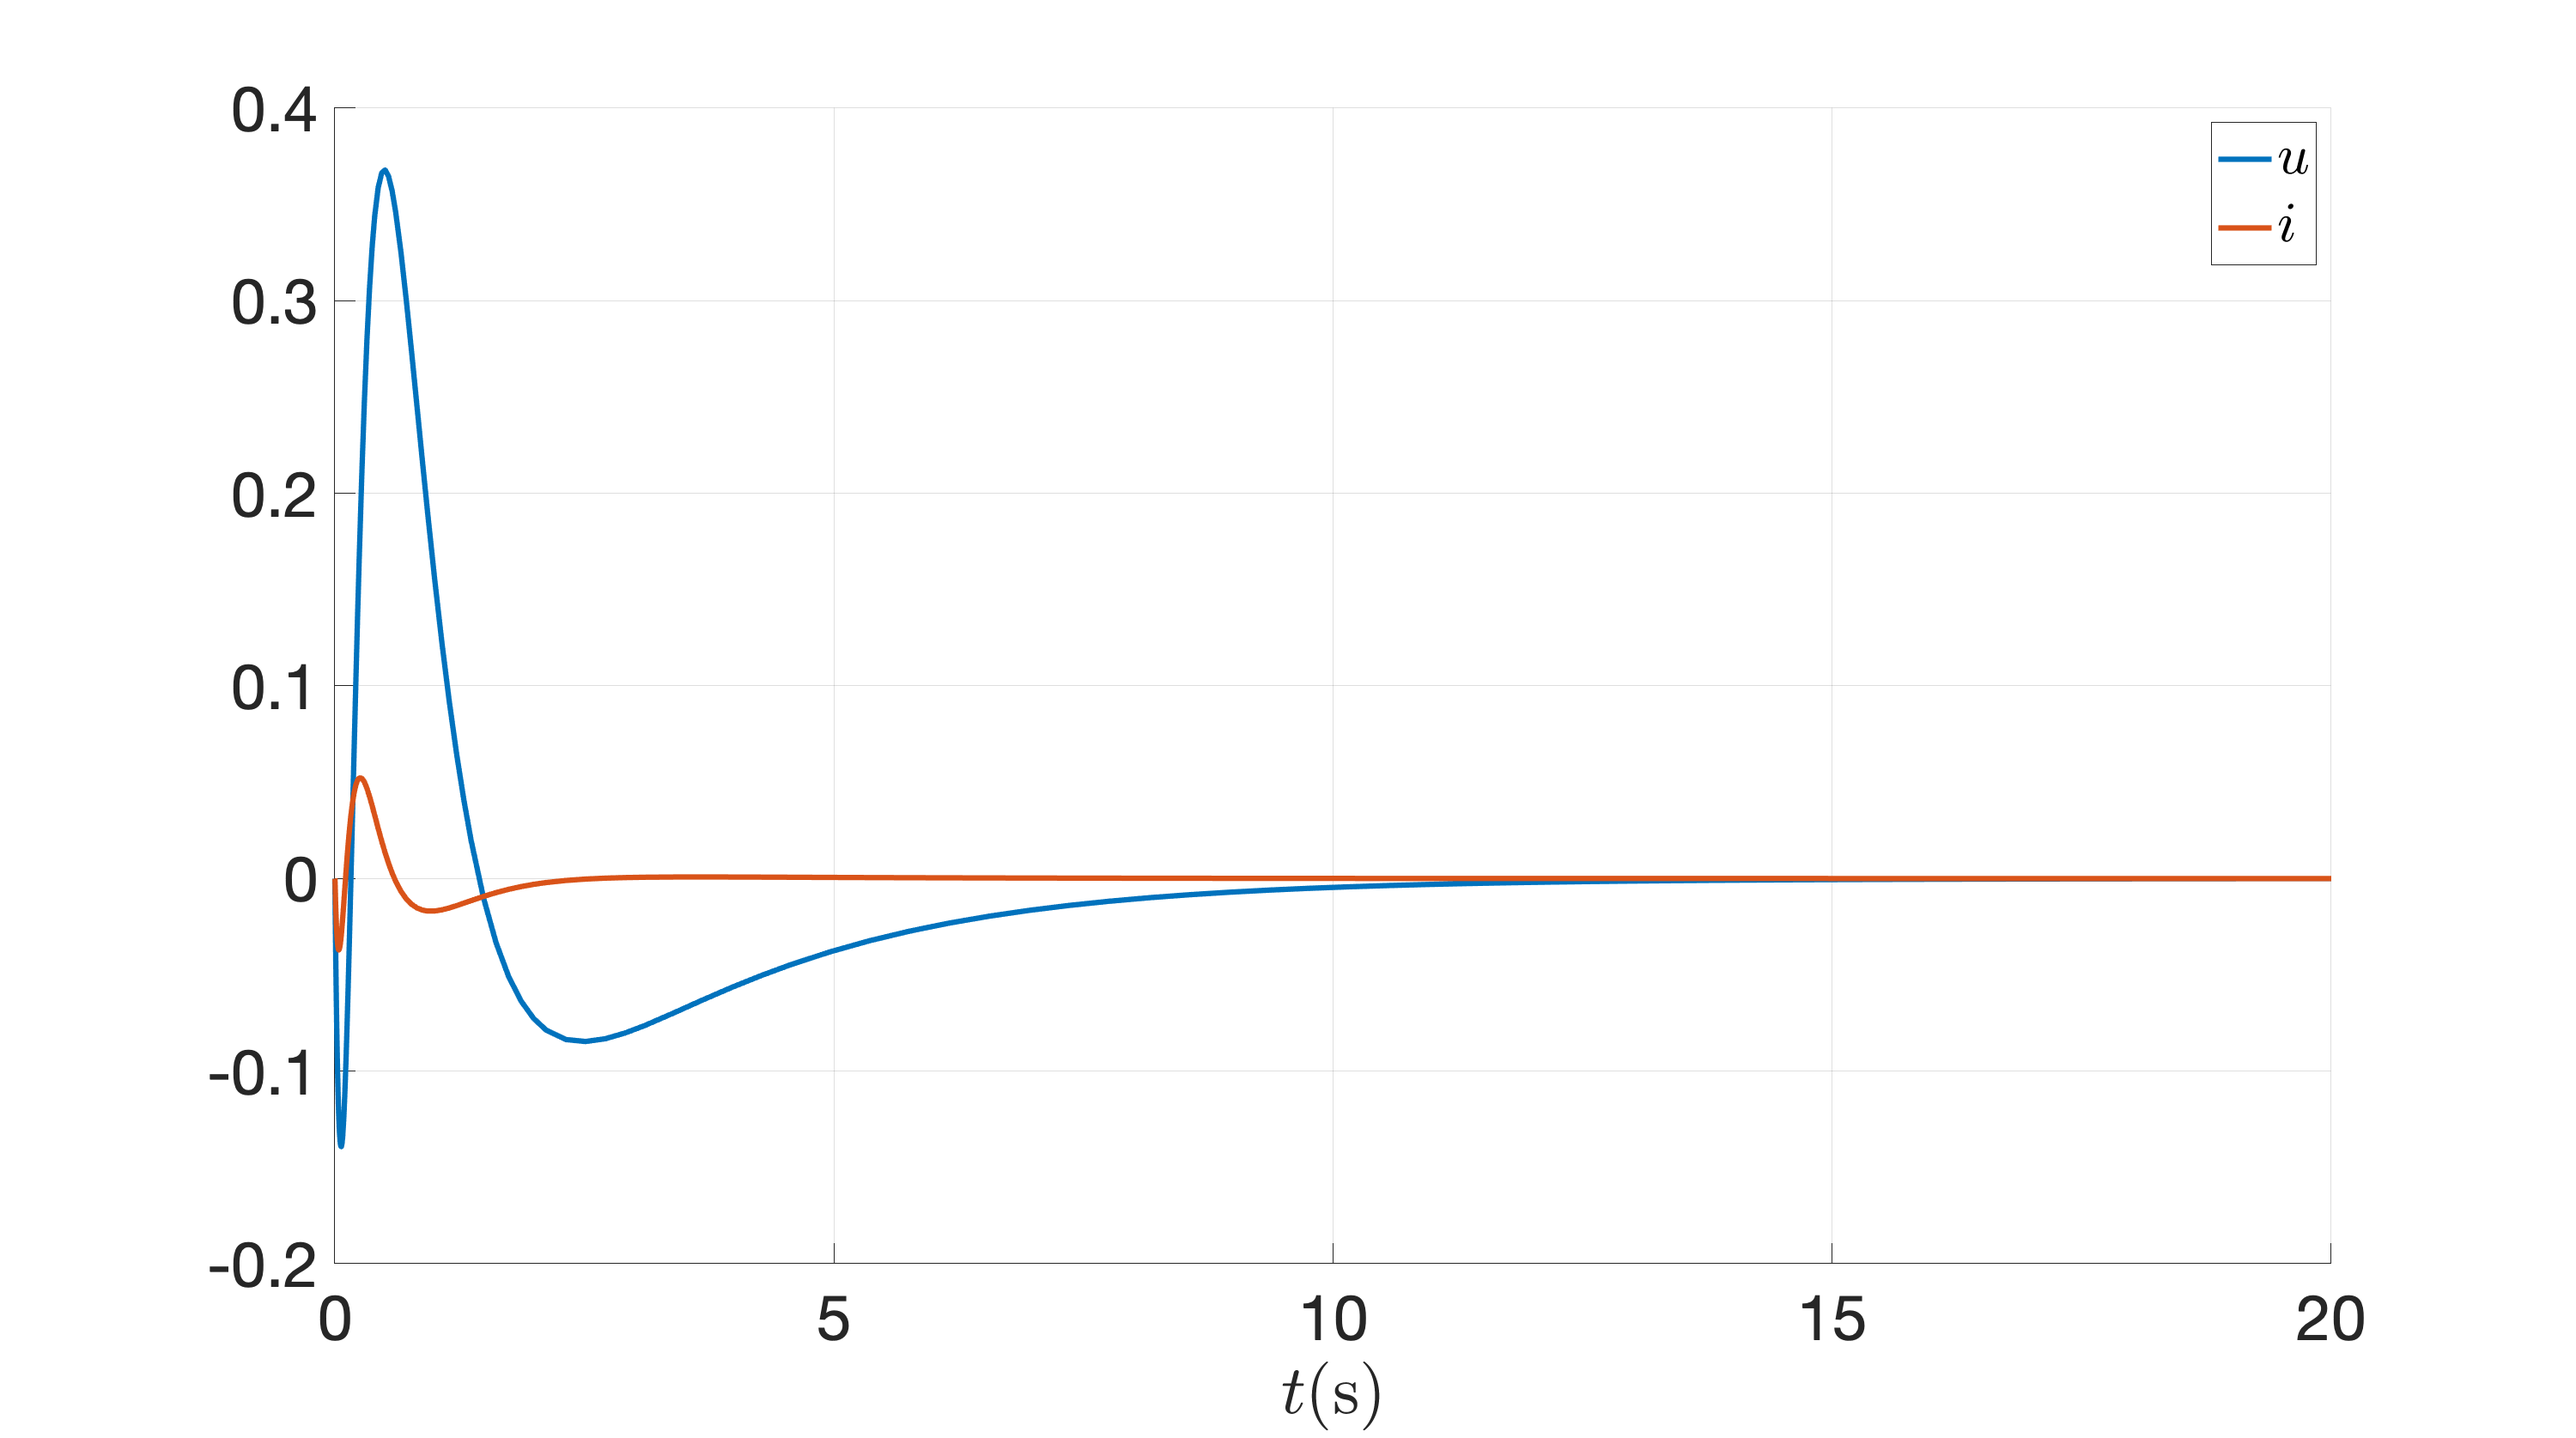
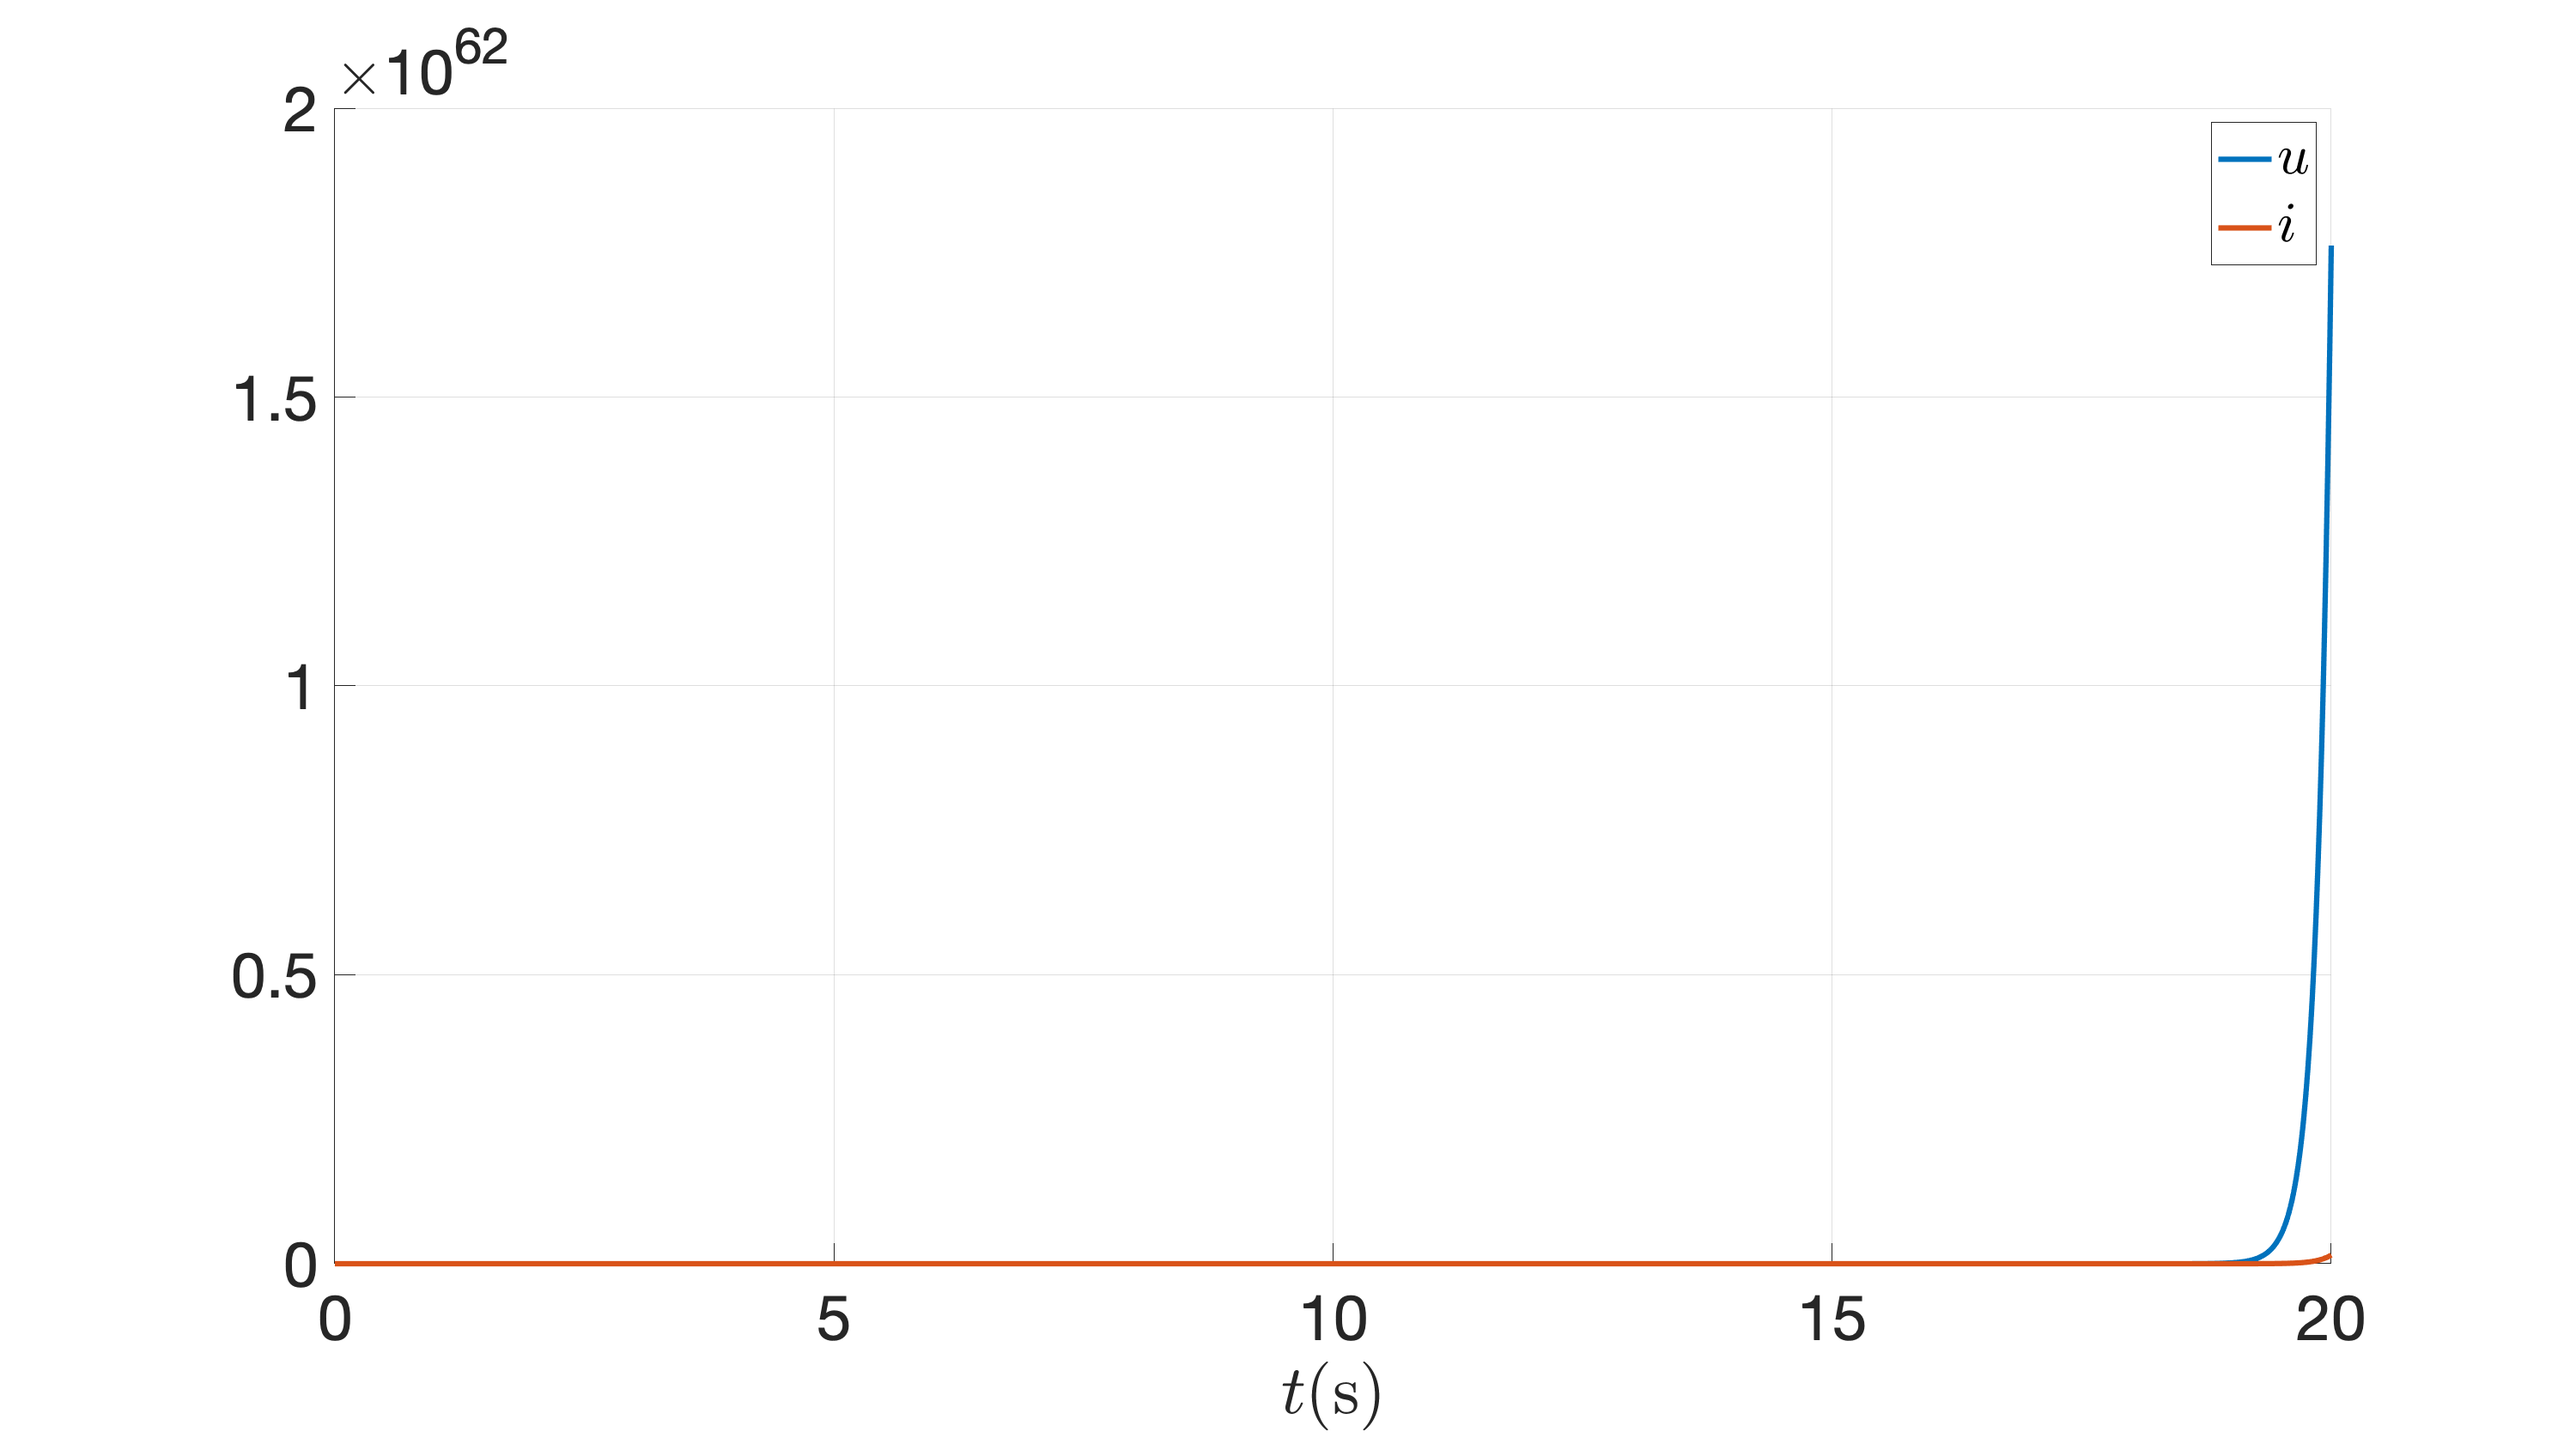
process noise, sensor noise, and saturation

diff --git a/CEEProject.m b/CEEProject.m
@@ -233,7 +233,7 @@ fprintf("7. Calculate vector of gains of observer state: \n");
 
 G = eye(size(A)); %Gain of the process noise
 %Variance of process errors
-Qe = 0.1*diag([0.018^2,(0.018*10)^2,0.018^2,(0.018*10)^2,0.025]);
+Qe = 0.1*diag([0.018^2,(0.018*10)^2,0.018^2,(0.018*10)^2,0.025^2]);
 Re = (0.018^2)*eye(2); %Variance of measurement errors
 L = lqe(A, G, C, Qe, Re); %Synthesize estimator gains
 
@@ -310,7 +310,65 @@ end
 % values of K can be altered to try to improve this solution (for example,
 % minimizing the time of convergence to zero).
 
+%% 9. Simulate Controlled System (with state observer) 
+% Process noise + sensor noise + saturation
+fprintf("-------------------------\n");
+fprintf("8.1 Simulate Controlled System with process noise, sensor noise, saturation.\n");
 
+saturation_u = 5;
+
+tc = (1/100)*2*pi/737;
+covProcess = 10*diag([0.018^2,(0.018*10)^2,0.018^2,(0.018*10)^2,0.025^2]);
+covSensor = (0.018^2)*eye(2);
+
+T = 20;
+sim('ModelNL1',T);
+
+if true
+
+figure('units','normalized','outerposition',[0 0 1 1]);
+hold on;
+grid on;
+set(gca,'FontSize',35);
+plot(t,x(:,[1 3]),'LineWidth',3);
+legend({"$\alpha$","$\beta$"},'Interpreter','latex');
+xlabel("$t (\mathrm{s})$",'Interpreter','latex');
+saveas(gcf,'./figures/9_angles.png');
+
+figure('units','normalized','outerposition',[0 0 1 1]);
+hold on;
+grid on;
+set(gca,'FontSize',35);
+plot(t,x(:,[2 4]),'LineWidth',3);
+legend({"$\dot{\alpha}$","$\dot{\beta}$"},'Interpreter','latex');
+xlabel("$t (\mathrm{s})$",'Interpreter','latex');
+saveas(gcf,'./figures/9_vel_angles.png');
+
+figure('units','normalized','outerposition',[0 0 1 1]);
+hold on;
+grid on;
+set(gca,'FontSize',35);
+plot(t,u,'LineWidth',3);
+plot(t,x(:,5),'LineWidth',3);
+legend({"$u$","$i$"},'Interpreter','latex');
+xlabel("$t (\mathrm{s})$",'Interpreter','latex');
+saveas(gcf,'./figures/9_u_i.png');
+
+figure('units','normalized','outerposition',[0 0 1 1]);
+hold on;
+grid on;
+set(gca,'FontSize',35);
+plot(t,x_hat-x,'LineWidth',3);
+ylabel("$\hat{x}-x$",'Interpreter','latex');
+xlabel("$t (\mathrm{s})$",'Interpreter','latex');
+legend({"$\alpha$","$\dot{\alpha}$","$\beta$","$\dot{\beta}$","$i$"},'Interpreter','latex');
+saveas(gcf,'./figures/9_estimation_error.png');
+end
+
+% With this control strategy, the values of alpha and beta converge to zero
+% and the inverted pendulum is properly controlled. Note now that the
+% values of K can be altered to try to improve this solution (for example,
+% minimizing the time of convergence to zero).
 
 %% A Fazer
 % Ver funcao tranferencia -> observabilidade - check leo 16/04
